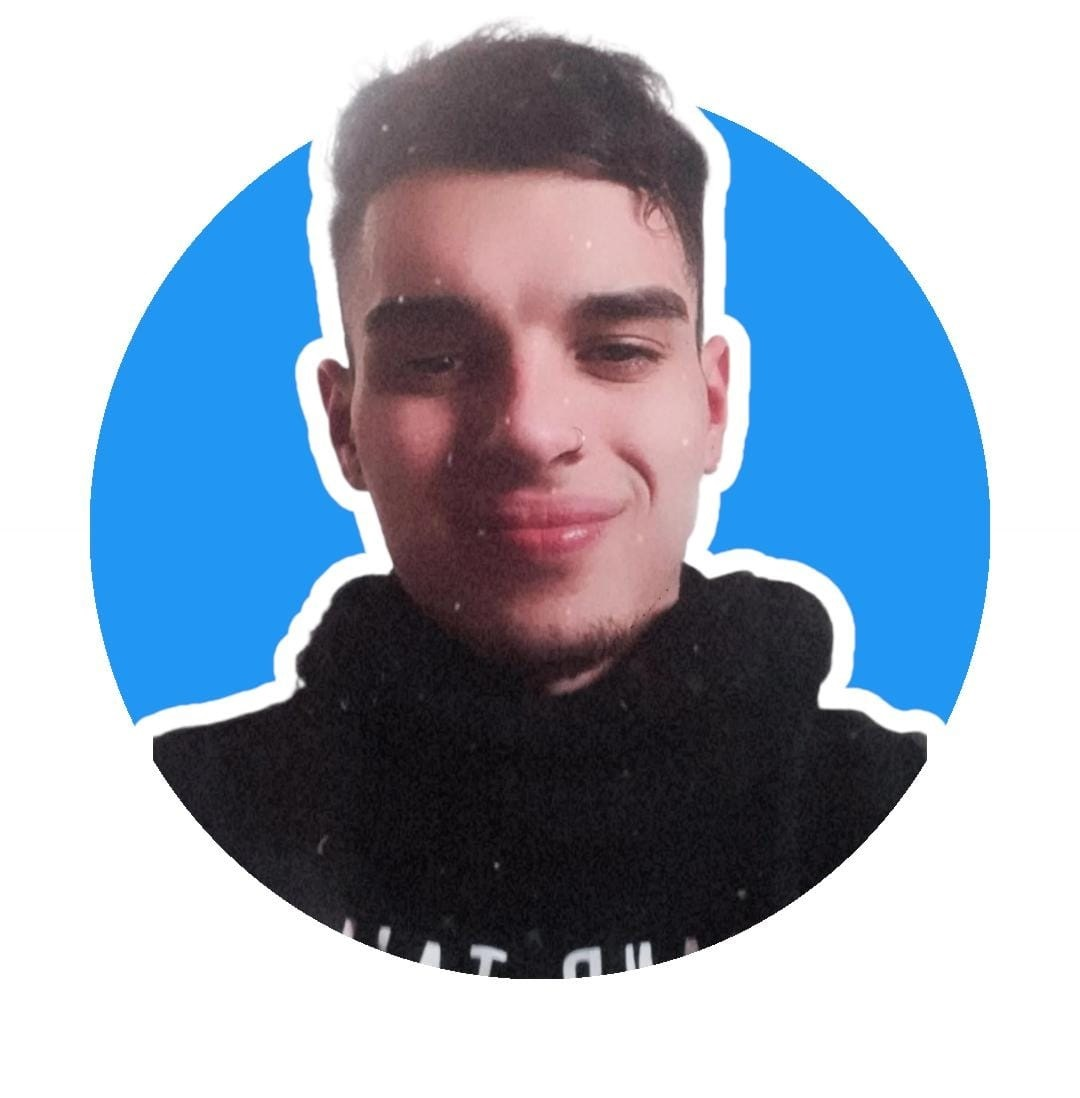
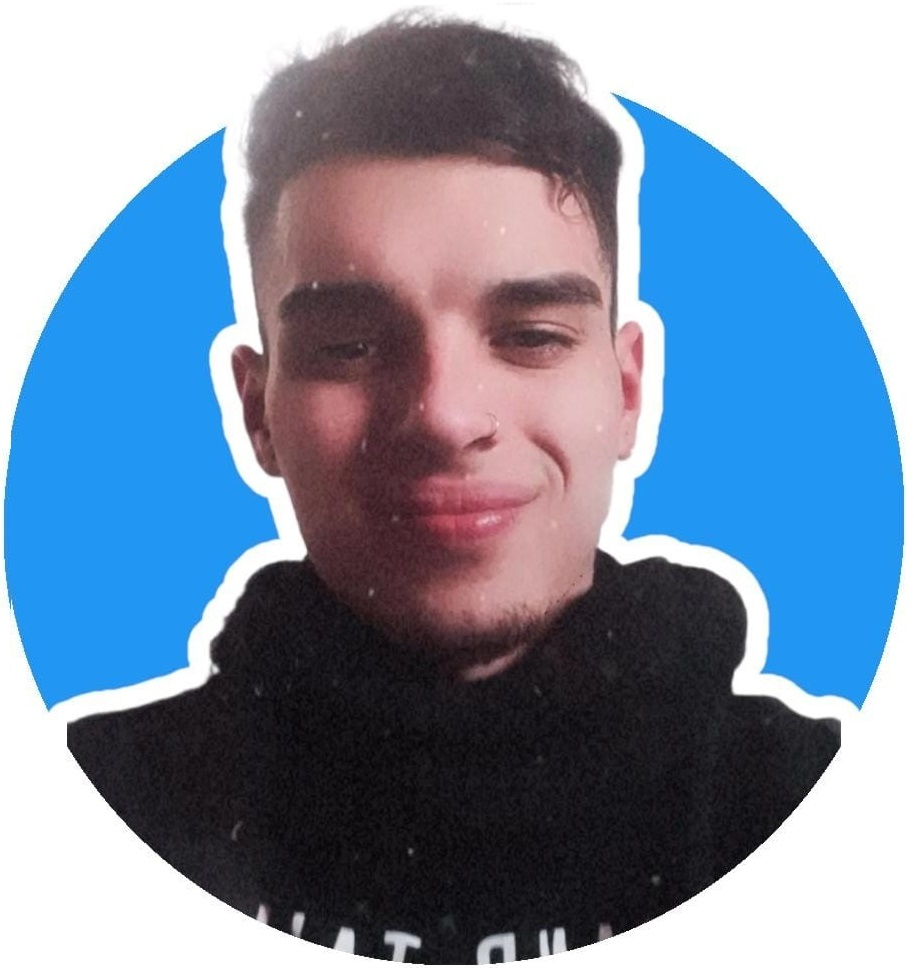
V 1.1.0

diff --git a/cv.html b/cv.html
@@ -1,0 +1,130 @@
+<!DOCTYPE html>
+<html lang="es">
+<head>
+    <meta charset="UTF-8">
+    <meta http-equiv="X-UA-Compatible" content="IE=edge">
+    <meta name="viewport" content="width=device-width, initial-scale=1.0">
+    <title>CV | Bamio Ezequiel</title>
+    <link rel="stylesheet" href="./css/style.css">
+    <link rel="preconnect" href="https://fonts.googleapis.com">
+    <link rel="preconnect" href="https://fonts.gstatic.com" crossorigin>
+    <link href="https://fonts.googleapis.com/css2?family=Outfit&display=swap" rel="stylesheet">
+</head>
+<body>
+    <header class="header">
+        <div class="header-container">
+            <h2 class="nav-logo f-size-md">
+                <a href="./" class="pulse">
+                    <span>bamioezequiel</span>
+                </a>
+            </h2>
+
+            <nav class="nav nav-menu">
+                <a href="./">Home</a>
+                <a href="./cv.html" class="active">CV</a>
+                <a href="./blog.html">Blog</a>
+            </nav>
+        </div>
+    </header>
+
+    <!-- <section class="cv-index">
+        
+    </section> -->
+
+    <main>
+        <div class="container">
+            <div class="box">
+                <div class="box-2">
+                    <img src="./img/profile-2.png" alt="Profile" class="cv-img d-inline" width="214px" height="230px">
+                    <p class="poster d-inline f-size-md p-10">Programador</p>
+                </div>
+                
+                <div class="box-2">
+                    <h1 class="f-size-xl t-center">Bamio Ezequiel</h1>
+
+                    <div>
+                        <h2 class="poster f-size-md p-10">Contacto</h2>
+                        <br><br>
+                        <ul>
+                            <li>Argentina. Buenos Aires, Quilmes</li>
+                            <li>14 de Abril 2001</li>
+                            <li>bamioezequielok@gmail.com</li>
+                            <li>+54 11 3645-7522</li>
+                        </ul>
+                    </div>
+                </div>
+
+                <h2 class="poster f-size-md p-10">Acerca</h2>
+                <br><br>
+                <p class="f-size-s">Empece en junio del 2020 a estudiar programación como autodidacta, despues de 6 meses me anote en la Universidad Tecnologica Nacional (FRA) en la Tecnicatura Universitaria en Programación, actualmente (2022) sigo cursando y tambien formandome como autodidacta.
+                <br>Deseo formar parte de una empresa que me permita continuar aprendiendo y demostrar mi potencial. Tengo como objetivo auto superarme día a día.</p>
+                <br><br>
+
+                <h2 class="poster f-size-md p-10">Educación</h2>
+                <br></br>
+                <h3>Formación Academica</h3>
+                <div>
+                    <h5>Tecnicatura Universitaria en Programación - Universidad Tecnológica Nacional ( FRA ) 2021 - En curso</h5>
+                    <ul>
+                        <li>Base de datos ( SQL Server)</li>
+                        <li>Programación Orientada a Objetos ( C# )</li>
+                        <li>Programación Estructurada. ( C )</li>
+                        <li>Lógica. ( JavaScript )</li>
+                    </ul>
+                </div>
+                <h3>Cursos</h3>
+                <div>
+                    <h5>Udemy</h5>
+                    <ul>
+                        <li><pre>Angular: De cero a experto                    - <i>Diciembre 2021</i></pre></li>
+                        <li><pre>Administración de Windows desde la consola    - <i>Octubre 2021</i></pre></li>
+                        <li><pre>SQL Server 2019                               - <i>Agosto de 2020</i></pre></li>
+                        <li><pre>Master en C# de cero 2020                     - <i>Junio de 2020</li></pre></li>
+                    </ul>
+                    <h5>Youtube</h5>
+                    <ul>
+                        <li><pre>JavaScript   50hs | Jonmircha                 - <i>Marzo de 2022</li></pre></li>
+                        <li><pre>HTML && CSS  47hs | Jonmircha                 - <i>Marzo de 2022</li></pre></li>
+                    </ul>
+                </div>
+                <br></br>
+                <h2 class="poster f-size-md p-10">Habilidades</h2>
+                <br></br><br>
+                <div>
+                    <ul>
+                        <li>Autodidacta</li>
+                        <li></li>
+                        <li></li>
+                        <li></li>
+                    </ul>
+                </div>
+                <br><br>
+
+                <h2 class="poster f-size-md p-10">Tecnologias</h2>
+                <br></br><br>
+                <div>
+                    <a href="#"><img title="C#" height="50" src="img/CSharp.png" alt="C#"></a>
+                    <a href="#"><img title="SQLServer" height="50" src="img/SQL.png" alt="SQLServer"></a>
+                    <br>
+                    <a href="#"><img title="C" height="50" src="img/C.png" alt="C"></a>
+                    <br>
+                    <a href="#"><img title="Angular" height="50" src="img/Angular.png" alt="Angular"></a>
+                    <a href="#"><img title="Firebase" height="50" src="img/Firebase.png" alt="Firebase"></a>
+                    <a href="#"><img title="Typescript" height="50" src="img/Typescript.png" alt="Typescript"></a>
+                    <br>
+                    <a href="#"><img title="Javascript" height="50" src="img/JS.png" alt="JavaScirpt"></a>
+                    <a href="#"><img title="CSS" height="50" src="img/CSS.png" alt="CSS"></a>
+                    <a href="#"><img title="HTML" height="50" src="img/HTML.png" alt="HTML"></a>
+                </div>
+                <br><br>
+                <h2 class="poster f-size-md p-10">Experiencia</h2>
+                <br><br>
+                <h4>Actualmente no tengo experiencia laboral</h4>
+                <br><br>
+            </div>
+
+        </div>
+    </main>
+
+</body>
+</html>

diff --git a/index.html b/index.html
@@ -4,7 +4,7 @@
     <meta charset="UTF-8">
     <meta http-equiv="X-UA-Compatible" content="IE=edge">
     <meta name="viewport" content="width=device-width, initial-scale=1.0">
-    <title>Sitio Web | Bamio Ezequiel</title>
+    <title>Home | Bamio Ezequiel</title>
     <link rel="stylesheet" href="./css/style.css">
     <link rel="preconnect" href="https://fonts.googleapis.com">
     <link rel="preconnect" href="https://fonts.gstatic.com" crossorigin>
@@ -19,10 +19,10 @@
                 </a>
             </h2>
 
-            <nav class="nav nav-menu">
-                <a href="#">Home</a>
-                <a href="#">CV</a>
-                <a href="#">Blog</a>
+            <nav class="nav-menu">
+                <a href="./" class="active">Home</a>
+                <a href="./cv.html">CV</a>
+                <a href="./blog.html">Blog</a>
             </nav>
         </div>
     </header>
@@ -41,10 +41,10 @@
    
     <footer class="footer">
             <div class="social-media">
-                <a href="#"><img src="./assets/linkedin.svg"/></a>
-                <a href="#"><img src="./assets/discord.svg"/></a>
-                <a href="#"><img src="./assets/github.svg"/></a>
-                <a href="#"><img src="./assets/whatsapp.svg"/></a>
+                <a href="https://www.linkedin.com/in/ezequielbamio/" target="_blank" rel="noopened"><img src="./assets/linkedin.svg"/></a>
+                <a href="#" target="_blank" rel="noopened"><img src="./assets/discord.svg"/></a>
+                <a href="https://github.com/bamioezequiel" target="_blank" rel="noopened"><img src="./assets/github.svg"/></a>
+                <a href="https://api.whatsapp.com/send?phone=1136457522&text=Hola!" target="_blank" rel="noopened"><img src="./assets/whatsapp.svg"/></a>
             </div>
             <p>Bamio Ezequiel - Copyright © 2022</p>
     </footer>

diff --git a/css/style.css b/css/style.css
@@ -4,6 +4,7 @@
     --color-primary: #FFCA2B;
     --dark: #1b1e21;
     --white: #fff;
+    --color-active: #fff;
     --font-sm: 14px;
     --font-md: 16px;
     --font-lg: 24px;
@@ -38,9 +39,7 @@ body {
 
 main {
     width: 70%;
-    margin-right: auto;
-    margin-left: auto;
-    margin-bottom: 50px;
+    margin: 50px auto;
 }
 
 a {
@@ -60,6 +59,9 @@ h6 {
     font-weight: 900;
     line-height: 1.2;
     margin: 0.5em 0;
+}
+
+footer {
 }
     
 /* ------- COMPONENTS ------- */
@@ -119,7 +121,7 @@ h6 {
 /* Footer */
 
 .footer {
-    position:absolute;
+    position: absolute;
     bottom: 0;
     background-color: #12121205;
     color: #1212127A;
@@ -142,18 +144,51 @@ h6 {
     box-shadow: 5px 5px 0 2px var(--color-primary);
 }
 
+/* CV */
+
+.cv-img {
+    border-radius: 100%;
+    background-color: var(--color-primary);
+}
+
+.cv-index {
+    /* position: absolute;
+    width: 14%;
+    height: 100%;
+    background-color: var(--color-primary); */
+}
+
+.box-2 {
+    display: flex;
+    justify-content: space-around;
+    align-items: center;
+}
+
+
 /* ------- UTILITS    ------- */
+
+.d-inline {
+    display: inline;
+}
+
+.t-center {
+    text-align: center;
+}
 
 .p-10 {
     padding: 10px;
+}
+
+.mb-50 {
+    margin-bottom: 50px;
 }
 
 .lh-2 {
     line-height: 2;
 }
 
-.f-size-md {
-    font-size: 1em;
+.f-size-s {
+    font-size: 1.4em;
 }
 
 .f-size-md {
